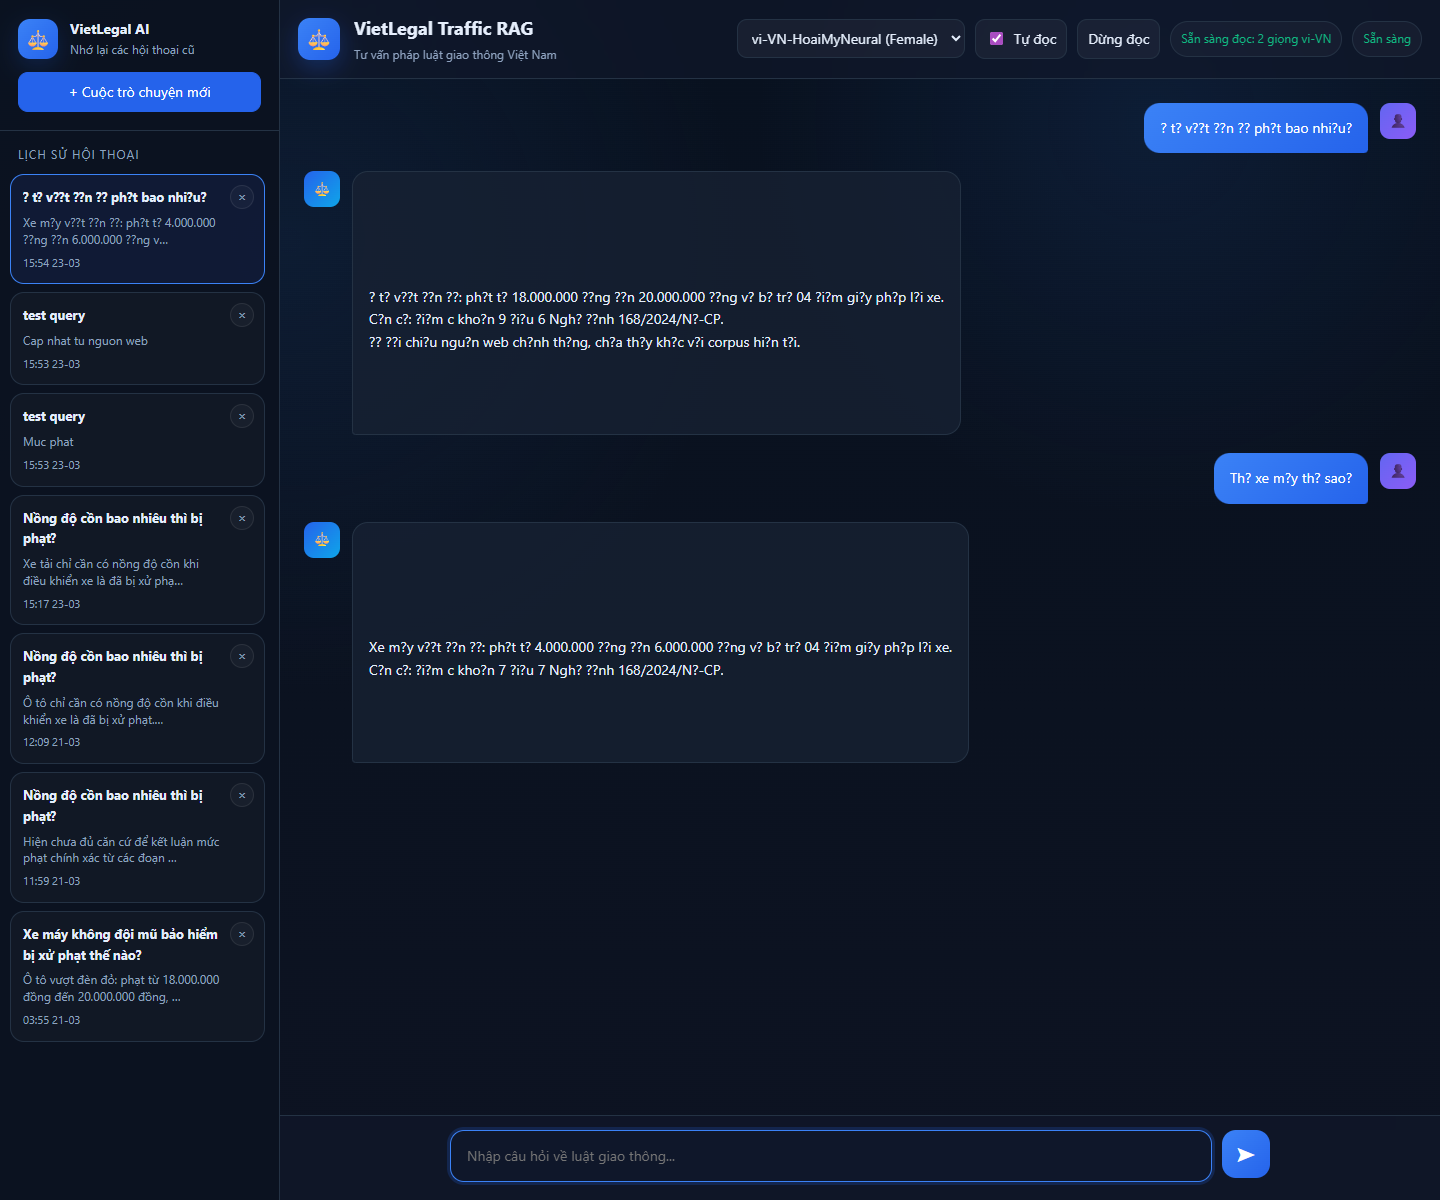
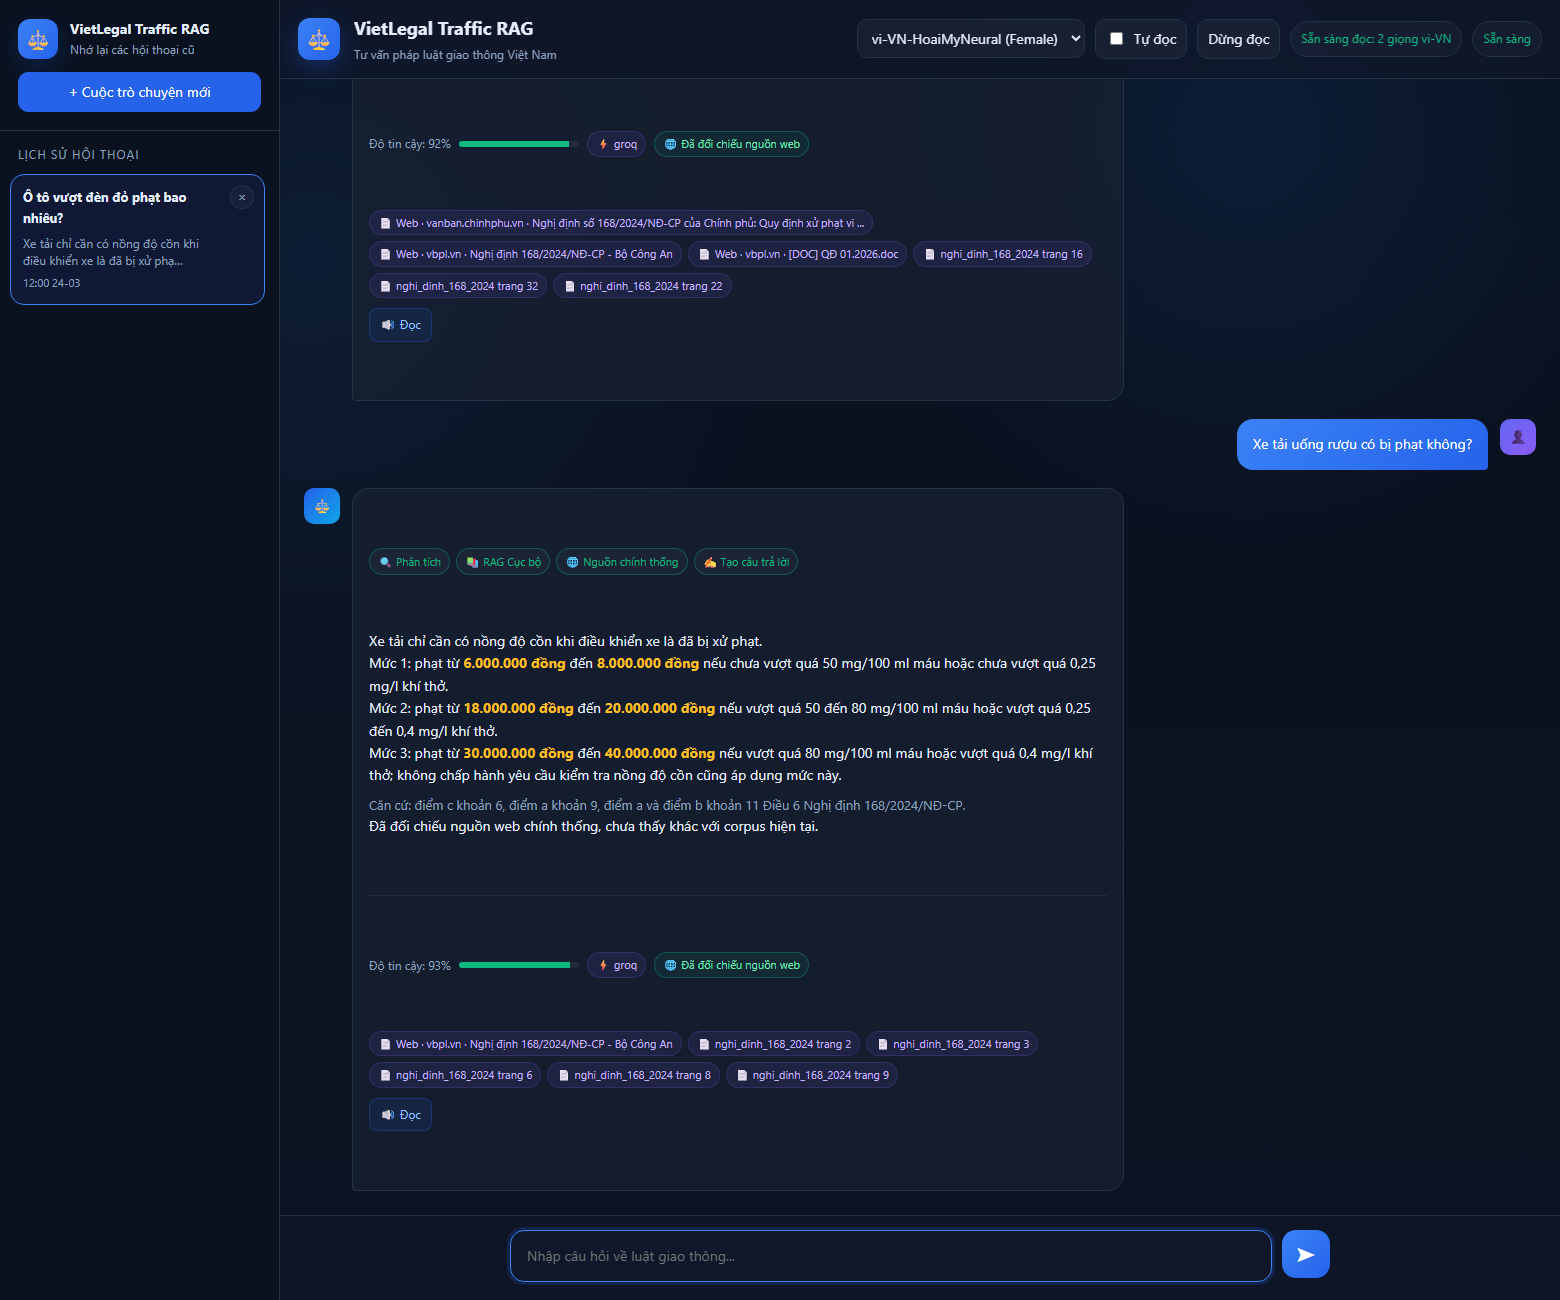
fix: handle alcohol follow-ups and refresh ui assets

diff --git a/src/api/static/index.html b/src/api/static/index.html
@@ -38,7 +38,7 @@
 <div class="sidebar-head">
 <div class="sidebar-brand">
 <div class="logo-mini">⚖</div>
-<div><strong>VietLegal AI</strong><span>Nhớ lại các hội thoại cũ</span></div>
+<div><strong>VietLegal Traffic RAG</strong><span>Nhớ lại các hội thoại cũ</span></div>
 </div>
 <button id="newChat" class="new-chat-btn" type="button">+ Cuộc trò chuyện mới</button>
 </div>

diff --git a/src/agent/nodes.py b/src/agent/nodes.py
@@ -103,6 +103,44 @@ def _normalize_text(text: str) -> str:
     return text
 
 
+def _mentions_red_light(normalized_text: str) -> bool:
+    return "den do" in normalized_text or "den tin hieu" in normalized_text
+
+
+def _mentions_alcohol(normalized_text: str) -> bool:
+    alcohol_markers = (
+        "nong do con",
+        "ruou bia",
+        "uong ruou",
+        "uong bia",
+        "say ruou",
+        "say bia",
+    )
+    return any(marker in normalized_text for marker in alcohol_markers)
+
+
+def _violation_topic(normalized_text: str) -> str | None:
+    if not normalized_text:
+        return None
+    if _mentions_red_light(normalized_text):
+        return "red_light"
+    if _mentions_alcohol(normalized_text):
+        return "alcohol"
+    if "sai lan" in normalized_text:
+        return "wrong_lane"
+    if "mu bao hiem" in normalized_text:
+        return "helmet"
+    if "nguoc chieu" in normalized_text:
+        return "wrong_way"
+    if "dien thoai" in normalized_text:
+        return "phone"
+    if "toc do" in normalized_text:
+        return "speed"
+    if "khoang cach an toan" in normalized_text:
+        return "distance"
+    return None
+
+
 def _recent_messages(messages: list, max_messages: int = 6) -> list:
     if not messages:
         return []
@@ -141,21 +179,22 @@ def _infer_entities_from_query(query: str, entities: dict) -> dict:
             inferred["vehicle_type"] = "\u00f4 t\u00f4"
 
     if not inferred.get("violation_type"):
-        if "den do" in normalized:
+        topic = _violation_topic(normalized)
+        if topic == "red_light":
             inferred["violation_type"] = "v\u01b0\u1ee3t \u0111\u00e8n \u0111\u1ecf"
-        elif "nong do con" in normalized or "ruou bia" in normalized:
+        elif topic == "alcohol":
             inferred["violation_type"] = "n\u1ed3ng \u0111\u1ed9 c\u1ed3n"
-        elif "sai lan" in normalized:
+        elif topic == "wrong_lane":
             inferred["violation_type"] = "\u0111i sai l\u00e0n"
-        elif "mu bao hiem" in normalized:
+        elif topic == "helmet":
             inferred["violation_type"] = "kh\u00f4ng \u0111\u1ed9i m\u0169 b\u1ea3o hi\u1ec3m"
-        elif "nguoc chieu" in normalized:
+        elif topic == "wrong_way":
             inferred["violation_type"] = "\u0111i ng\u01b0\u1ee3c chi\u1ec1u"
-        elif "dien thoai" in normalized:
+        elif topic == "phone":
             inferred["violation_type"] = "d\u00f9ng \u0111i\u1ec7n tho\u1ea1i khi l\u00e1i xe"
-        elif "toc do" in normalized:
+        elif topic == "speed":
             inferred["violation_type"] = "t\u1ed1c \u0111\u1ed9"
-        elif "khoang cach an toan" in normalized:
+        elif topic == "distance":
             inferred["violation_type"] = "kho\u1ea3ng c\u00e1ch an to\u00e0n"
 
     return inferred
@@ -185,6 +224,8 @@ def _infer_intent_from_context(query: str, history_text: str, entities: dict) ->
         "den tin hieu",
         "nong do con",
         "ruou bia",
+        "uong ruou",
+        "uong bia",
         "mu bao hiem",
         "sai lan",
         "nguoc chieu",
@@ -391,6 +432,9 @@ def _build_red_light_penalty_answer(
     violation_type = _normalize_text(entities.get("violation_type", ""))
     normalized_query = _normalize_text(state.get("user_query", ""))
     normalized_history = _normalize_text(_history_text(state.get("messages", [])))
+    violation_topic = _violation_topic(violation_type)
+    query_topic = _violation_topic(normalized_query)
+    history_topic = _violation_topic(normalized_history)
     vehicle_norm = ""
     if "xe may" in normalized_query:
         vehicle_norm = "xe may"
@@ -400,14 +444,11 @@ def _build_red_light_penalty_answer(
         vehicle_norm = "o to"
     else:
         vehicle_norm = _normalize_text(entities.get("vehicle_type", ""))
-    if (
-        "den do" not in violation_type
-        and "den tin hieu" not in violation_type
-        and "den do" not in normalized_query
-        and "den tin hieu" not in normalized_query
-        and "den do" not in normalized_history
-        and "den tin hieu" not in normalized_history
-    ):
+    if violation_topic == "red_light" or query_topic == "red_light":
+        should_answer = True
+    else:
+        should_answer = query_topic is None and history_topic == "red_light"
+    if not should_answer:
         return None, None
 
     corpus = "\n".join(docs)
@@ -488,13 +529,14 @@ def _build_alcohol_penalty_answer(
     violation_type = _normalize_text(entities.get("violation_type", ""))
     normalized_query = _normalize_text(state.get("user_query", ""))
     normalized_history = _normalize_text(_history_text(state.get("messages", [])))
-    if (
-        "nong do con" not in violation_type
-        and "nong do con" not in normalized_query
-        and "nong do con" not in normalized_history
-        and "ruou bia" not in normalized_query
-        and "ruou bia" not in normalized_history
-    ):
+    violation_topic = _violation_topic(violation_type)
+    query_topic = _violation_topic(normalized_query)
+    history_topic = _violation_topic(normalized_history)
+    if violation_topic == "alcohol" or query_topic == "alcohol":
+        should_answer = True
+    else:
+        should_answer = query_topic is None and history_topic == "alcohol"
+    if not should_answer:
         return None, None
 
     vehicle_norm = _normalize_text(entities.get("vehicle_type", ""))

diff --git a/tests/test_agent.py b/tests/test_agent.py
@@ -155,6 +155,26 @@ async def test_intent_analyzer_current_query_can_override_previous_violation():
 
 
 @pytest.mark.asyncio
+async def test_intent_analyzer_new_alcohol_query_does_not_inherit_red_light_violation_from_history():
+    from src.agent.nodes import intent_analyzer
+
+    with patch(
+        "src.agent.nodes.invoke_with_fallback",
+        new=AsyncMock(return_value="not-json"),
+    ):
+        state = _make_state("xe tai uong ruou co bi phat khong")
+        state["messages"] = [
+            {"role": "user", "content": "o to vuot den do phat bao nhieu"},
+            {"role": "assistant", "content": "Muc phat tu 18.000.000 dong den 20.000.000 dong."},
+        ]
+        result = await intent_analyzer(state)
+
+    assert result["intent"] == "penalty"
+    assert result["entities"]["vehicle_type"] == "xe tải"
+    assert result["entities"]["violation_type"] == "nồng độ cồn"
+
+
+@pytest.mark.asyncio
 async def test_intent_analyzer_falls_back_to_penalty_intent_from_follow_up_history_when_llm_output_is_invalid():
     from src.agent.nodes import intent_analyzer
 
@@ -459,6 +479,47 @@ async def test_generator_penalty_red_light_mentions_web_confirmation_when_reques
 
     assert "18.000.000 đồng đến 20.000.000 đồng" in result["answer"]
     assert "Đã đối chiếu nguồn web chính thống" in result["answer"]
+
+
+@pytest.mark.asyncio
+async def test_generator_penalty_new_alcohol_query_does_not_return_red_light_answer_from_history():
+    from src.agent.nodes import generator
+
+    state = _make_state("xe tai uong ruou co bi phat khong")
+    state["intent"] = "penalty"
+    state["messages"] = [
+        {"role": "user", "content": "o to vuot den do phat bao nhieu"},
+        {"role": "assistant", "content": "Muc phat tu 18.000.000 dong den 20.000.000 dong."},
+    ]
+    state["entities"] = {"vehicle_type": "xe tải", "violation_type": None}
+    state["sources"] = [
+        "Web · vbpl.vn · Nghị định 168/2024/NĐ-CP - Bộ Công An",
+        "nghi_dinh_168_2024 trang 16",
+    ]
+    state["reranked_docs"] = [
+        (
+            "Điều 6. Xử phạt người điều khiển xe ô tô ... "
+            "9. Phạt tiền từ 18.000.000 đồng đến 20.000.000 đồng đối với hành vi không chấp hành hiệu lệnh đèn tín hiệu giao thông."
+        ),
+        (
+            "Điều 8. Xe tải chỉ cần có nồng độ cồn khi điều khiển xe là đã bị xử phạt. "
+            "Mức 1: phạt từ 6.000.000 đồng đến 8.000.000 đồng nếu chưa vượt quá 50 mg/100 ml máu "
+            "hoặc chưa vượt quá 0,25 mg/l khí thở."
+        ),
+    ]
+    state["web_docs"] = [
+        "[Nguồn web chính thống]\nTiêu đề: Nghị định 168/2024/NĐ-CP - Bộ Công An\nURL: https://vbpl.vn\nTóm tắt: ... nồng độ cồn ..."
+    ]
+
+    with patch(
+        "src.agent.nodes.invoke_with_fallback",
+        new=AsyncMock(side_effect=AssertionError("should not call llm")),
+    ):
+        result = await generator(state)
+
+    assert result["confidence"] >= 0.9
+    assert "nồng độ cồn" in result["answer"].lower()
+    assert "vượt đèn đỏ" not in result["answer"].lower()
 
 
 @pytest.mark.asyncio

diff --git a/tests/test_portfolio_hygiene.py b/tests/test_portfolio_hygiene.py
@@ -76,6 +76,7 @@ def test_static_ui_keeps_public_branding_and_no_ascii_fallback_title():
     html = _read_utf8("src/api/static/index.html")
 
     assert "VietLegal Traffic RAG" in html
+    assert "VietLegal AI</strong>" not in html
     assert "Tu van Luat Giao thong" not in html
 
 
